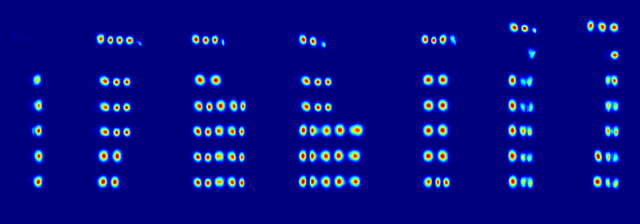
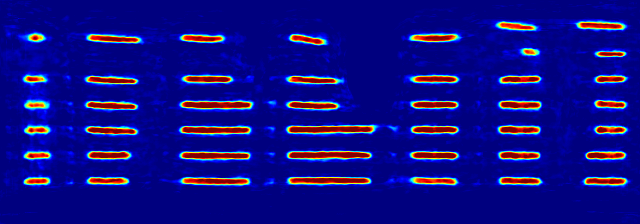
Add refine and conversion

diff --git a/examples/craft-test.rs b/examples/craft-test.rs
@@ -1,18 +1,21 @@
-use burn::backend::{CudaJit, Wgpu};
+use burn::{
+    backend::{CudaJit, Wgpu},
+    record::FullPrecisionSettings,
+};
 use burn::{
     module::Module,
     prelude::Backend,
-    record::{HalfPrecisionSettings, NamedMpkFileRecorder, Recorder},
+    record::{NamedMpkFileRecorder, Recorder},
 };
 use clap::{Parser, ValueEnum};
 use craft_burn::{
-    craft::{
-        utils::{adjust_coordinates, get_det_boxes},
-        Craft, CraftRecord,
-    },
     image_util::{
         float_to_color_map, resize_aspect_ratio, NormalizeMeanVarianceConfig, ResizeResult,
     },
+    loader,
+    refine::{RefineNet, RefineNetRecord},
+    utils::{adjust_coordinates, get_det_boxes},
+    Craft, CraftRecord,
 };
 use image::{DynamicImage, Rgb};
 use imageproc::drawing::draw_hollow_polygon_mut;
@@ -26,7 +29,7 @@ use strum::Display;
 #[derive(Parser, Debug)]
 pub struct Args {
     /// Model weight file
-    #[arg(long, default_value = "weights/craft_weights_half.mpk")]
+    #[arg(long, default_value = "weights/craft_mlt_25k.mpk")]
     trained_model: PathBuf,
     /// The burn backend to use.
     #[arg(short, long, default_value_t = BurnBackend::Wgpu)]
@@ -52,6 +55,16 @@ pub struct Args {
     /// Test image
     #[arg(short = 'o', long, default_value = "result/")]
     out_dir: PathBuf,
+    /// Whether to use refiner net
+    #[arg(long, default_value_t = false)]
+    refine: bool,
+    /// Path to refiner weights
+    #[arg(long, default_value = "weights/craft_refiner_CTW1500.mpk")]
+    refiner_model: PathBuf,
+
+    /// Convert pytorch weights to mpk
+    #[arg(long)]
+    convert: bool,
 }
 
 #[derive(Debug, Clone, Copy, Display, ValueEnum)]
@@ -109,6 +122,7 @@ fn main() {
 
 pub fn test_net<B: Backend>(
     net: Craft<B>,
+    refine_net: Option<RefineNet<B>>,
     image: DynamicImage,
     text_threshold: f64,
     link_threshold: f64,
@@ -129,10 +143,10 @@ pub fn test_net<B: Backend>(
 
     let x = norm_mean_variance.forward(image);
 
-    let (y, _feature) = net.forward(x);
+    let (y, feature) = net.forward(x);
 
     let score_text = y.clone().narrow(3, 0, 1);
-    let score_link = y.clone().narrow(3, 1, 1);
+    let mut score_link = y.clone().narrow(3, 1, 1);
 
     // Sync to properly measure time of each step
     let _ = score_text.to_data();
@@ -140,6 +154,13 @@ pub fn test_net<B: Backend>(
 
     let net_time = Instant::now() - start;
     println!("Network took {:?}", net_time);
+
+    if let Some(refine_net) = refine_net {
+        let start = Instant::now();
+        score_link = refine_net.forward(y.clone(), feature).narrow(3, 0, 1);
+        let _ = score_link.to_data();
+        println!("RefineNet took {:?}", Instant::now() - start);
+    }
 
     let image_text = float_to_color_map(score_text.clone());
     let image_link = float_to_color_map(score_link.clone());
@@ -168,13 +189,32 @@ pub fn test_net<B: Backend>(
         .unwrap();
 }
 
-pub fn run<B: Backend>(device: &B::Device, args: Args) {
-    let recorder = NamedMpkFileRecorder::<HalfPrecisionSettings>::default();
+pub fn run<B: Backend>(device: &B::Device, mut args: Args) {
+    let recorder = NamedMpkFileRecorder::<FullPrecisionSettings>::default();
+
+    if args.convert {
+        let record = loader::load_pytorch_weights::<B>(&args.trained_model, device);
+        args.trained_model.set_extension("mpk");
+        recorder.record(record, args.trained_model.clone()).unwrap();
+
+        if args.refine {
+            let record = loader::load_refiner_weights::<B>(&args.refiner_model, device);
+            args.refiner_model.set_extension("mpk");
+            recorder.record(record, args.refiner_model.clone()).unwrap();
+        }
+    }
     let record: CraftRecord<B> = recorder
         .load(args.trained_model, &Default::default())
         .expect("Failed to load model");
 
     let net = Craft::<B>::init(device).load_record(record);
+    let refine_net = args.refine.then(|| {
+        let record: RefineNetRecord<B> = recorder
+            .load(args.refiner_model, &Default::default())
+            .expect("Failed to load model");
+        RefineNet::init(device).load_record(record)
+    });
+
     let image = image::open(args.test_image).unwrap();
 
     fs::create_dir_all(&args.out_dir).unwrap();
@@ -182,6 +222,7 @@ pub fn run<B: Backend>(device: &B::Device, args: Args) {
     // Run twice so we can get warmed up execution times as well as cold starts
     test_net(
         net.clone(),
+        refine_net.clone(),
         image.clone(),
         args.text_threshold,
         args.link_threshold,
@@ -191,6 +232,7 @@ pub fn run<B: Backend>(device: &B::Device, args: Args) {
     );
     test_net(
         net.clone(),
+        refine_net.clone(),
         image.clone(),
         args.text_threshold,
         args.link_threshold,

diff --git a/src/refine.rs b/src/refine.rs
@@ -1,0 +1,120 @@
+use burn::{
+    config::Config,
+    module::Module,
+    nn::{
+        conv::{Conv2d, Conv2dConfig},
+        BatchNorm, BatchNormConfig, PaddingConfig2d, Relu,
+    },
+    prelude::Backend,
+    tensor::Tensor,
+};
+
+#[derive(Module, Debug)]
+struct LastConv<B: Backend> {
+    feat0: Conv2d<B>,
+    feat1: BatchNorm<B, 2>,
+    // feat2: Relu
+    feat3: Conv2d<B>,
+    feat4: BatchNorm<B, 2>,
+    // feat5: Relu
+    feat6: Conv2d<B>,
+    feat7: BatchNorm<B, 2>,
+    // feat8: Relu
+}
+
+impl<B: Backend> LastConv<B> {
+    pub fn forward(&self, x: Tensor<B, 4>) -> Tensor<B, 4> {
+        sequential!(
+            x, self.feat0, self.feat1, Relu, self.feat3, self.feat4, Relu, self.feat6, self.feat7,
+            Relu
+        )
+    }
+}
+
+#[derive(Config, Debug)]
+struct AsppConfig {
+    dilation: usize,
+}
+
+#[derive(Module, Debug)]
+struct Aspp<B: Backend> {
+    feat0: Conv2d<B>,
+    feat1: BatchNorm<B, 2>,
+    // feat2: Relu
+    feat3: Conv2d<B>,
+    feat4: BatchNorm<B, 2>,
+    // feat5: Relu
+    feat6: Conv2d<B>,
+}
+
+impl AsppConfig {
+    pub fn init<B: Backend>(&self, device: &B::Device) -> Aspp<B> {
+        let d = self.dilation;
+        Aspp {
+            feat0: Conv2dConfig::new([64, 128], [3, 3])
+                .with_dilation([d, d])
+                .with_padding(PaddingConfig2d::Explicit(d, d))
+                .init(device),
+            feat1: BatchNormConfig::new(127).init(device),
+            feat3: Conv2dConfig::new([128, 128], [1, 1]).init(device),
+            feat4: BatchNormConfig::new(128).init(device),
+            feat6: Conv2dConfig::new([128, 1], [1, 1]).init(device),
+        }
+    }
+}
+
+impl<B: Backend> Aspp<B> {
+    pub fn forward(&self, x: Tensor<B, 4>) -> Tensor<B, 4> {
+        sequential!(x, self.feat0, self.feat1, Relu, self.feat3, self.feat4, Relu, self.feat6)
+    }
+}
+
+#[derive(Module, Debug)]
+pub struct RefineNet<B: Backend> {
+    last_conv: LastConv<B>,
+
+    aspp1: Aspp<B>,
+    aspp2: Aspp<B>,
+    aspp3: Aspp<B>,
+    aspp4: Aspp<B>,
+}
+
+impl<B: Backend> RefineNet<B> {
+    pub fn init(device: &B::Device) -> Self {
+        let last_conv = LastConv {
+            feat0: Conv2dConfig::new([34, 64], [3, 3])
+                .with_padding(PaddingConfig2d::Same)
+                .init(device),
+            feat1: BatchNormConfig::new(64).init(device),
+            feat3: Conv2dConfig::new([64, 64], [3, 3])
+                .with_padding(PaddingConfig2d::Same)
+                .init(device),
+            feat4: BatchNormConfig::new(64).init(device),
+            feat6: Conv2dConfig::new([64, 64], [3, 3])
+                .with_padding(PaddingConfig2d::Same)
+                .init(device),
+            feat7: BatchNormConfig::new(64).init(device),
+        };
+
+        Self {
+            last_conv,
+            aspp1: AsppConfig::new(6).init(device),
+            aspp2: AsppConfig::new(12).init(device),
+            aspp3: AsppConfig::new(18).init(device),
+            aspp4: AsppConfig::new(24).init(device),
+        }
+    }
+
+    pub fn forward(&self, y: Tensor<B, 4>, upconv4: Tensor<B, 4>) -> Tensor<B, 4> {
+        let refine = Tensor::cat(vec![y.permute([0, 3, 1, 2]), upconv4], 1);
+        let refine = self.last_conv.forward(refine);
+
+        let aspp1 = self.aspp1.forward(refine.clone());
+        let aspp2 = self.aspp2.forward(refine.clone());
+        let aspp3 = self.aspp3.forward(refine.clone());
+        let aspp4 = self.aspp4.forward(refine);
+
+        let out = aspp1 + aspp2 + aspp3 + aspp4;
+        out.permute([0, 2, 3, 1])
+    }
+}

diff --git a/src/loader.rs b/src/loader.rs
@@ -6,18 +6,35 @@ use burn::{
 };
 use burn_import::pytorch::{LoadArgs, PyTorchFileRecorder};
 
-use crate::CraftRecord;
+use crate::{refine::RefineNetRecord, CraftRecord};
 
+/// Load pytorch weights. Requires reexport from the python version because the official weights use
+/// an outdated file format
 pub fn load_pytorch_weights<B: Backend>(
     weights: impl AsRef<Path>,
     device: &B::Device,
 ) -> CraftRecord<B> {
     let load_args = LoadArgs::new(weights.as_ref().into())
+        .with_key_remap(r"module\.(.+)", "$1")
         .with_key_remap(r"upconv([0-9])\.conv\.0", "upconv$1.conv1")
         .with_key_remap(r"upconv([0-9])\.conv\.1", "upconv$1.batch_norm1")
         .with_key_remap(r"upconv([0-9])\.conv\.3", "upconv$1.conv2")
         .with_key_remap(r"upconv([0-9])\.conv\.4", "upconv$1.batch_norm2")
         .with_key_remap(r"basenet\.slice([0-9])\.([0-9])", "basenet.slice_$1.feat$2");
+    let recorder = PyTorchFileRecorder::<FullPrecisionSettings>::default();
+    recorder
+        .load(load_args, device)
+        .expect("Should decode state successfully")
+}
+
+/// Load pytorch weights for the refiner network. Requires reexport from the python version because
+/// the official weights use an outdated file format
+pub fn load_refiner_weights<B: Backend>(
+    weights: impl AsRef<Path>,
+    device: &B::Device,
+) -> RefineNetRecord<B> {
+    let load_args = LoadArgs::new(weights.as_ref().into())
+        .with_key_remap(r"module\.(.+)\.([0-9])", "$1.feat$2");
     let recorder = PyTorchFileRecorder::<FullPrecisionSettings>::default();
     recorder
         .load(load_args, device)

diff --git a/src/lib.rs b/src/lib.rs
@@ -1,5 +1,19 @@
-pub mod craft;
+macro_rules! sequential {
+    ($x:expr, $($module:expr),*) => {
+        {
+            let x = $x;
+            $(
+                let x = $module.forward(x);
+            )*
+            x
+        }
+    };
+}
+
+mod craft;
+
 pub mod image_util;
+pub mod refine;
 pub use craft::*;
 
 #[cfg(feature = "import")]

diff --git a/src/craft/mod.rs b/src/craft/mod.rs
@@ -16,18 +16,6 @@ use burn::{
 
 pub mod utils;
 
-macro_rules! sequential {
-    ($x:expr, $($module:expr),*) => {
-        {
-            let x = $x;
-            $(
-                let x = $module.forward(x);
-            )*
-            x
-        }
-    };
-}
-
 #[derive(Module, Debug)]
 struct Slice1<B: Backend> {
     feat0: Conv2d<B>,
